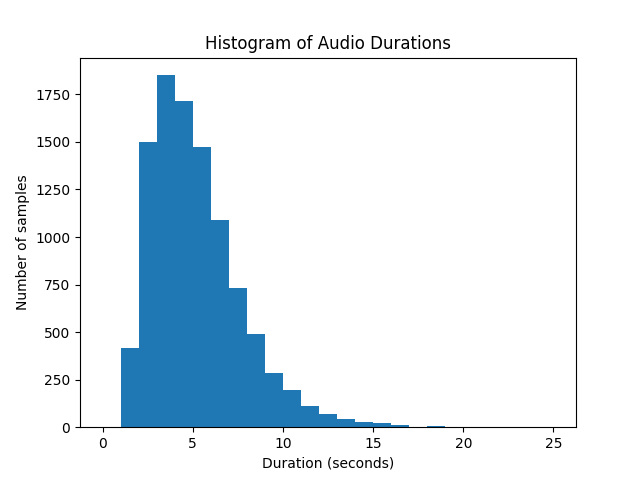
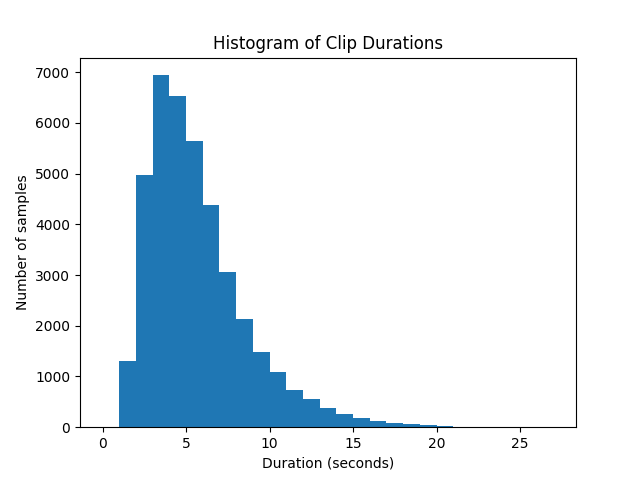
Release v4

diff --git a/README.md b/README.md
@@ -10,11 +10,19 @@ Neyshekar is released incrementally. Each release represents a stable snapshot o
 
 ### v4 — 2026-05-14 ([download](https://doi.org/10.5281/zenodo.18073632))
 
-- Total samples: 40008
-- Total duration (hours): 63.03
-- Average clip duration (seconds): 5.67
-- Total tokens: 456268
-- Vocab size: 26758
+- Total samples: **40,008** (**f**: 21,613, **m**: 17,845)
+- Total duration (hours): **63.03**
+- Average clip duration (seconds): **5.67**
+- Total tokens: **456,268**
+- Vocab size: **26,758**
+- Entities: **12,443** (identified using Shekar NER)
+
+Entity type counts:
+LOC: 4817
+DAT: 3616
+ORG: 1588
+PER: 2156
+EVE: 266
 
 ### v3 — 2026-03-23
 
